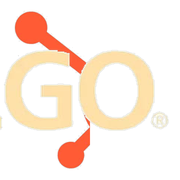
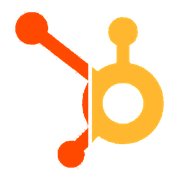
Restyle HubQuira mark as a split sprocket, orange | Aquira gold
Matches the split-mark mock: HubSpot left, Aquira gold right,
gap down the middle, no white tile.

diff --git a/app/ui/templates/base.html b/app/ui/templates/base.html
@@ -55,19 +55,19 @@
       }
 
       .brand-mark .brand-icon {
-        width: 42px;
-        height: 42px;
-        border-radius: 12px;
-        overflow: hidden;
-        background: #fff;
+        width: 48px;
+        height: 48px;
+        border-radius: 0;
+        overflow: visible;
+        background: transparent;
         display: grid;
         place-items: center;
         padding: 0;
       }
 
       .brand-mark .brand-icon img {
-        width: 42px;
-        height: 42px;
+        width: 48px;
+        height: 48px;
         display: block;
       }
 

diff --git a/app/version.py b/app/version.py
@@ -1,1 +1,1 @@
-REVISION = "2026.09.04-hubquira-logo"
+REVISION = "2026.09.04-split-sprocket-mark"
